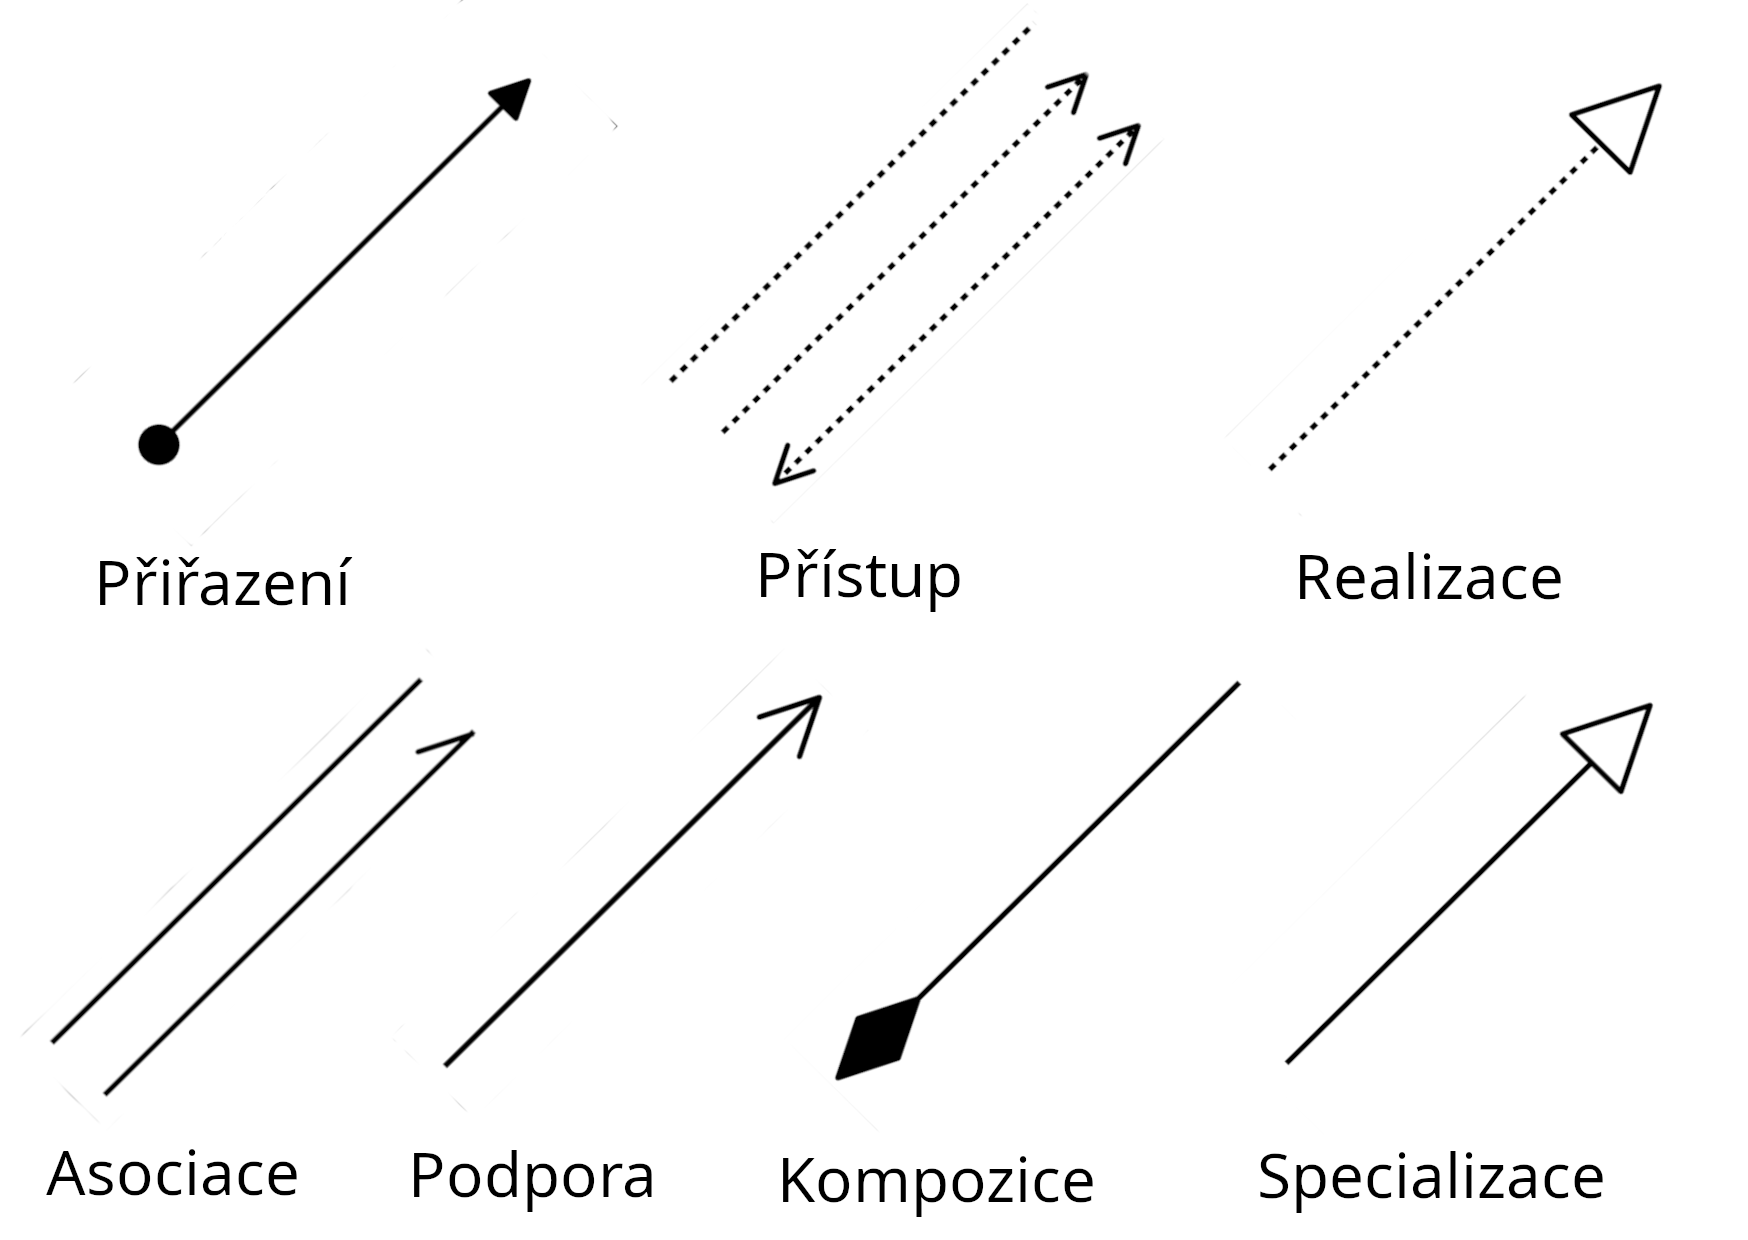
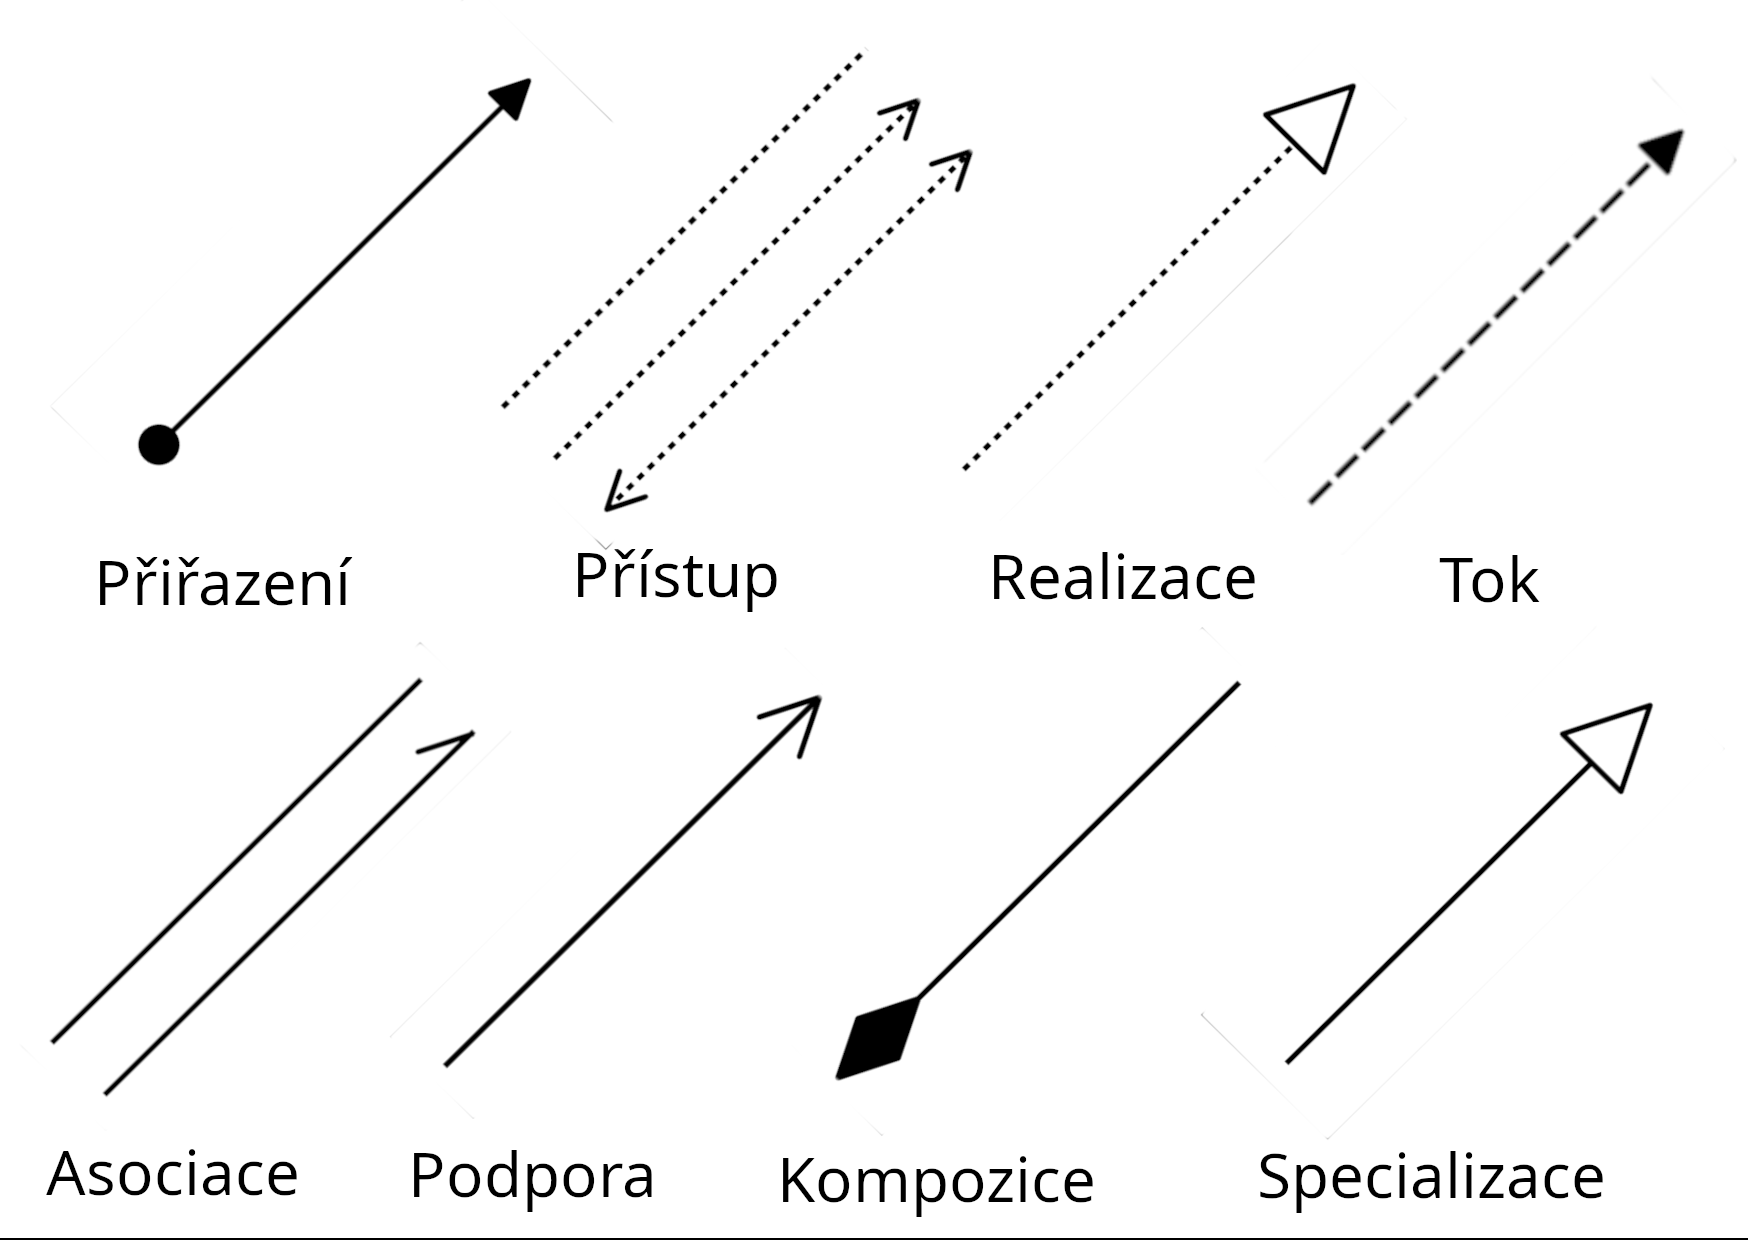
feat(architektura): aktualizace kapitol ArchiMate a Návrh architektury dle modelu
- archimate.tex: doplnění použitých elementů a vztahů s českou terminologií
  z překladového glosáře, obrázky elementů a vztahů
- navrh_architektury: oprava aplikační a technologické vrstvy dle skutečné
  implementace (samostatné komponenty místo IEQ API, ploché kontejnery)
- nová příloha s odkazem na repozitář modelu (archimate.ambiquality.org)
- aktualizace exportovaných pohledů modelu

diff --git a/archimate.tex b/archimate.tex
@@ -1,8 +1,8 @@
 \chapter{Jazyk ArchiMate}
 
-Jazyk ArchiMate je jazykem pro modelování podnikové architektury. Jazyk je vyvíjen organizací The Open Group a je navržen tak, aby poskytoval jednotný jazkyk pro popis podnikové architektury. V práci je použita verze jazyka ArchiMate 3.2. Tento modelovcí jazyk byl zvolen na základě konzultace s vedoucím práce.
+Jazyk ArchiMate je jazykem pro modelování podnikové architektury. Jazyk je vyvíjen organizací The Open Group a je navržen tak, aby poskytoval jednotný jazyk pro popis podnikové architektury. V práci je použita verze jazyka ArchiMate 3.2. Tento modelovací jazyk byl zvolen na základě konzultace s vedoucím práce. Pro české názvy elementů a vztahů je v této kapitole použita oficiální překladová terminologie z dokumentu \textit{ArchiMate 3.2 Translation Glossary: English -- Czech} \parencite{OpenGroupStandard}.
 
-Jazyk je rozdělen na tři vrstvy, které je možné vidět na obrázku č. \ref{fig:archimate-core-framework} . První vrstvou je vrstva Obchodní, která zachycuje obchodní služby nabízené zákazníkům, které jsou v organizaci realizovány obchodními procesy vykonávannými obchoními aktéry. Druhou vrstvou je vrstva Aplikační, která popisuje aplikační služby, které podporují obchod, a aplikace, které je realizují. Třetí vrstvou je dvojvrstva Technologická \& fyzická, která zachycuje technologické služby, jako jsou služby zpracovávání, ukládání a komunikační služby potřebné ke spuštění aplikací, počítačový a komunikační hardware a systémový software, které tyto služby realizují. Součástí jsou fyzické prvky pro modelování fyzického vybavení, materiálů a distribučních sítí. \parencite{LanguageStructureArchiMate, OpenGroupStandard}
+Jazyk je rozdělen na tři vrstvy, které je možné vidět na obrázku č. \ref{fig:archimate-core-framework} . První vrstvou je vrstva Obchodní, která zachycuje obchodní služby nabízené zákazníkům, které jsou v organizaci realizovány obchodními procesy vykonávanými obchodními aktéry. Druhou vrstvou je vrstva Aplikační, která popisuje aplikační služby, které podporují obchod, a aplikace, které je realizují. Třetí vrstvou je dvojvrstva Technologická \& fyzická, která zachycuje technologické služby, jako jsou služby zpracovávání, ukládání a komunikační služby potřebné ke spuštění aplikací, počítačový a komunikační hardware a systémový software, které tyto služby realizují. Součástí jsou fyzické prvky pro modelování fyzického vybavení, materiálů a distribučních sítí. \parencite{LanguageStructureArchiMate, OpenGroupStandard}
 
 \begin{figure}[hbtp!]
   \centering
@@ -13,10 +13,59 @@ Jazyk je rozdělen na tři vrstvy, které je možné vidět na obrázku č. \ref
   \scriptsize \textit{Zdroj:} Specifikace jazyka ArchiMate 3.2 \parencite{LanguageStructureArchiMate}
 \end{figure}
 
-\[TODO\]
-Doplnit použité elementy
+\section{Použité elementy}
 
-Elementy v jazyce ArchiMate jsou propojeny různými typy vztahů. Vztahy, které byly použity v této práci v kapitole č. \ref{chap:architektura} je možné vidět na obrázku č. \ref{fig:archimate-relationships}. 
+Model architektury využívá podmnožinu elementů ze tří základních vrstev jazyka. Jejich grafickou podobu shrnuje obrázek č.~\ref{fig:archimate-elements}, následující přehled vychází z definic překladového glosáře \parencite{OpenGroupStandard}.
+
+Z \textbf{obchodní vrstvy} jsou použity tyto elementy:
+\begin{itemize}
+  \item \textit{Obchodní role} (\textit{business role}) -- vyjadřuje zodpovědnost za vykonávání dané činnosti, ke které může být přiřazen aktér.
+  \item \textit{Obchodní rozhraní} (\textit{business interface}) -- přístupový bod, na kterém jsou obchodní služby zpřístupněny svému okolí.
+  \item \textit{Obchodní proces} (\textit{business process}) -- posloupnost obchodního chování, která má specifický výstup.
+  \item \textit{Obchodní služba} (\textit{business service}) -- jasně definované chování, které obchodní role nebo aktér nabízí svému prostředí.
+  \item \textit{Obchodní objekt} (\textit{business object}) -- pojem používaný v určité obchodní doméně.
+\end{itemize}
+
+Z \textbf{aplikační vrstvy} jsou použity tyto elementy:
+\begin{itemize}
+  \item \textit{Aplikační komponenta} (\textit{application component}) -- zapouzdření aplikační funkcionality v souladu s implementační strukturou, která je modulární a nahraditelná.
+  \item \textit{Aplikační rozhraní} (\textit{application interface}) -- přístupový bod, na kterém jsou aplikační služby zpřístupněny uživateli, jiné komponentě nebo uzlu.
+  \item \textit{Aplikační funkce} (\textit{application function}) -- automatizované chování, které může být vykonáváno aplikační komponentou.
+  \item \textit{Aplikační služba} (\textit{application service}) -- explicitně definované a vystavené aplikační chování.
+  \item \textit{Datový objekt} (\textit{data object}) -- data strukturovaná pro automatizované zpracování.
+\end{itemize}
+
+Z \textbf{technologické vrstvy} jsou použity tyto elementy:
+\begin{itemize}
+  \item \textit{Uzel} (\textit{node}) -- výpočetní nebo fyzický prostředek, který poskytuje prostor a interaguje s dalšími prostředky.
+  \item \textit{Systémový software} (\textit{system software}) -- software sloužící k ukládání, vykonávání nebo použití jiného softwaru či dat.
+  \item \textit{Technologická služba} (\textit{technology service}) -- explicitně definované a vystavené technologické chování.
+  \item \textit{Artefakt} (\textit{artifact}) -- data používaná či produkovaná během vývoje, nasazení a provozu IT systému.
+\end{itemize}
+
+\begin{figure}[hbtp!]
+  \centering
+  \caption{Elementy jazyka ArchiMate použité v modelu}
+  \label{fig:archimate-elements}
+  \includegraphics[width=0.8\textwidth]{img/archimate-elements}
+  
+  \scriptsize \textit{Zdroj:} Vlastní zpracování na základě specifikace jazyka ArchiMate 3.2 \parencite{LanguageStructureArchiMate}
+\end{figure}
+
+\section{Použité vztahy}
+
+Elementy v jazyce ArchiMate jsou propojeny různými typy vztahů. Vztahy, které byly použity v modelu v kapitole č.~\ref{chap:architektura}, je možné vidět na obrázku č.~\ref{fig:archimate-relationships}. Jejich význam podle překladového glosáře \parencite{OpenGroupStandard} je následující:
+\begin{itemize}
+  \item \textit{Kompozice} (\textit{composition}) -- vyjadřuje, že jeden prvek se skládá z jednoho nebo více konceptů.
+  \item \textit{Přiřazení} (\textit{assignment}) -- vyjadřuje přidělení zodpovědnosti, vykonání nebo provedení činnosti.
+  \item \textit{Realizace} (\textit{realization}) -- vyjadřuje, že nějaký prvek hraje zásadní roli při vytváření nebo provozu jiného, abstraktnějšího prvku.
+  \item \textit{Podpora} (\textit{serving}) -- vyjadřuje, že prvek poskytuje svoji funkčnost jinému prvku.
+  \item \textit{Přístup} (\textit{access}) -- vyjadřuje schopnost prvku chování sledovat nebo manipulovat s pasivními prvky (datovými a obchodními objekty).
+  \item \textit{Tok} (\textit{flow}) -- vyjadřuje přenos (např. informací) z jednoho prvku do druhého.
+  \item \textit{Specializace} (\textit{specialization}) -- vyjadřuje, že jeden prvek je specifickým typem jiného prvku.
+  \item \textit{Asociace} (\textit{association}) -- vyjadřuje blíže neupřesněný vztah, pro který nelze použít jiný vztah definovaný v jazyce ArchiMate.
+\end{itemize}
+
 \begin{figure}[hbtp!]
   \centering
   \caption{Vztahy v jazyce ArchiMate}

diff --git a/navrh_architektury.tex b/navrh_architektury.tex
@@ -2,58 +2,58 @@
 
 Tato kapitola se zabývá návrhem architektury systému aplikace pro sběr dat o IEQ. Návrh vychází z identifikovaných požadavků a případů užití vymezených v předchozích kapitolách.  
 
-Na obrázku č. \ref{fig:archimate-model} lze vidět celkový pohled na model. Model je však rozsáhlý a pro nejlepší zážitek z prohlížení byla vytvořena webová stránka \href{archimate.ambiquality.org}{archimate.ambiqulity.org}, kde lze model podrobně prohlížet. Stránka byla vygenerována pomocí funkce \textit{Report -> HTML} v aplikaci \textit{Archi}, která byla pro modelování použita.
+Na obrázku č. \ref{fig:archimate-model} lze vidět celkový pohled na model. Model je však rozsáhlý a pro nejlepší zážitek z prohlížení byla vytvořena webová stránka \href{https://archimate.ambiquality.org}{archimate.ambiquality.org}, kde lze model podrobně prohlížet. Stránka byla vygenerována pomocí funkce \textit{Report -> HTML} v aplikaci \textit{Archi}, která byla pro modelování použita. Zdrojový kód stránky i exportovaný model jsou dostupné v repozitáři uvedeném v příloze~\ref{app:archimate-repo}.
 
 \begin{figure}[hbtp!]
   \centering
   \caption{Celkový model architektury}
   \label{fig:archimate-model}
-  \includegraphics[width=0.9\textwidth]{img/model}
+  \includegraphics[width=1\textwidth]{img/model}
 
   \scriptsize \textit{Zdroj:} Vlastní zpracování
 \end{figure}
 
 \section{Business vrstva}
 
-Business vrstva, zachycená na obrázku č.~\ref{fig:archimate-business-layer}, popisuje organizační kontext systému prostřednictvím aktérů, rolí, služeb a procesů. Aktéři jsou hierarchicky uspořádáni: kořenový aktér \textit{Uživatel aplikace} se větví na \textit{Producenta dat} a \textit{Spotřebitele dat}, přičemž každý z nich má lidskou a strojovou variantu (tzn. senzor jako strojový producent). Listoví aktéři jsou přiřazeni k odpovídajícím rolím – \textit{Provozovatel monitorovaného prostoru}, \textit{Návštěvník}, \textit{Výzkumný pracovník} a \textit{Vývojář aplikací třetí strany} – které nesou odpovědnosti za konkrétní chování v systému.
+Business vrstva, zachycená na obrázku č.~\ref{fig:archimate-business-layer}, popisuje organizační kontext systému prostřednictvím rolí, rozhraní, služeb a procesů. Aktéři systému jsou modelováni jako obchodní role: \textit{Provozovatel monitorovaného prostoru}, \textit{Návštěvník}, \textit{Výzkumný pracovník} a \textit{Vývojář aplikací třetí strany} jako lidské role, \textit{Senzor} jako strojová role v pozici producenta měření a \textit{Datový katalog} jako role konzumující strojově čitelná metadata. Každá role nese odpovědnost za konkrétní chování v systému.
 
-Klíčové byznys služby zahrnují správu evidence prostoru a senzorů, příjem měření, veřejnou mapu měření, veřejné čtecí API a poskytování datového archivu. Tyto služby jsou realizovány byznys procesy jako \textit{Přihlášení}, \textit{Registrace}, \textit{Příjem měření} nebo \textit{Prohlížení měření}. Jako sdílené byznys objekty vystupují zejména \textit{Měření}, \textit{Data budovy}, \textit{Data místnosti} a \textit{Data senzoru}.
+Klíčové byznys služby zahrnují \textit{Autentizační službu}, \textit{Správu evidence}, \textit{Příjem měření}, \textit{Veřejné čtecí API}, \textit{Strojově čitelný popis API}, \textit{Veřejnou mapu měření}, \textit{Poskytování archivu měření} a \textit{Publikaci datových sad}. Tyto služby jsou realizovány byznys procesy, jako jsou \textit{Registrace}, \textit{Změna přihlašovacích údajů}, \textit{Evidence budovy}, \textit{Evidence místnosti}, \textit{Evidence senzoru}, \textit{Validace přijatých měření}, \textit{Prohlížení měření} nebo \textit{Stažení datového archivu}. Role přistupují ke službám prostřednictvím dvou obchodních rozhraní -- \textit{Rozhraní provozovatele} a \textit{Veřejného webového rozhraní}. Podrobné pohledy na jednotlivé byznys objekty (např. \textit{Měření}, \textit{Data budovy}, \textit{Data místnosti} a \textit{Data senzoru}) jsou kvůli přehlednosti přesunuty do dílčích pohledů dostupných v~online verzi modelu.
 
-\begin{figure}[hbtp!]
+\begin{figure}
   \centering
   \caption{Model obchodní vrstvy}
   \label{fig:archimate-business-layer}
-  \includegraphics[width=0.9\textwidth]{img/business-layer}
+  \includegraphics[width=0.95\textwidth]{img/business-layer}
 
   \scriptsize \textit{Zdroj:} Vlastní zpracování
 \end{figure}
 
 \section{Aplikační vrstva}
 
-Aplikační vrstva, zobrazená na obrázku č.~\ref{fig:archimate-app-layer}, modeluje softwarové komponenty a jejich vzájemné vztahy. Centrálním prvkem je komponenta \textit{IEQ API}, která zastřešuje šest specializovaných modulů: \textit{Autentizační}, \textit{Evidenční}, \textit{Sběrný}, \textit{Čtecí}, \textit{Katalogizační} a \textit{Archivační}. Každý modul realizuje skupinu aplikačních služeb odpovídající příslušným funkčním požadavkům – například Sběrný modul poskytuje služby příjmu a validace příchozích měření, Čtecí modul zajišťuje stránkování a filtrování dotazů.
+Aplikační vrstva, zobrazená na obrázku č.~\ref{fig:archimate-app-layer}, modeluje softwarové komponenty a jejich vzájemné vztahy. Namísto jediné monolitické komponenty je systém rozdělen na samostatné aplikační komponenty, které odpovídají skutečnému členění implementace: \textit{Auth.Api} zajišťuje autentizaci, \textit{Evidence.Api} správu evidence prostorů a senzorů, \textit{Ingestion.Api} příjem příchozích měření, \textit{Public.Api} veřejné čtení dat, poskytování specifikace API a katalogizačních metadat. Dvojici asynchronních komponent tvoří \textit{Ingestion.Worker}, který provádí validaci a zpracování měření, a \textit{Export.Worker}, který obstarává správu datového archivu. Každá komponenta realizuje skupinu aplikačních služeb odpovídající příslušným funkčním požadavkům -- například \textit{Ingestion.Api} poskytuje službu příjmu měření, zatímco \textit{Public.Api} zajišťuje čtení dat a mapové zobrazení.
 
-Druhou hlavní komponentou je \textit{Webová aplikace}, která agreguje dvě aplikační rozhraní: \textit{We-bo-vé rozhraní provozovatele} a \textit{Webové rozhraní návštěvníka}. Obě rozhraní jsou vystavena jedinou single-page aplikací a realizují odpovídající byznys rozhraní z vrstvy níže. Datové objekty (např. \textit{Specifikace API}, \textit{Token relace} nebo \textit{Parametry dotazu}) dokumentují klíčové informační artefakty procházející vrstvou.
+Komponenty \textit{Ingestion.Api} a \textit{Ingestion.Worker} jsou propojeny vztahem toku, který reprezentuje předávání přijatých měření k asynchronnímu zpracování. Druhou hlavní komponentou je \textit{Webová aplikace}, která vystavuje dvě aplikační rozhraní: \textit{Webové rozhraní provozovatele} a \textit{Webové rozhraní návštěvníka}. Obě rozhraní jsou realizována jedinou single-page aplikací a podporují odpovídající obchodní rozhraní z~vrstvy výše. Datové objekty procházející vrstvou jsou kvůli přehlednosti zobrazeny až v~dílčích pohledech online verze modelu.
 
 \begin{figure}[hbtp!]
   \centering
   \caption{Model aplikační vrstvy}
   \label{fig:archimate-app-layer}
-  \includegraphics[width=0.9\textwidth]{img/app-layer}
+  \includegraphics[width=1\textwidth]{img/app-layer}
 
   \scriptsize \textit{Zdroj:} Vlastní zpracování
 \end{figure}
 
 \section{Technologická vrstva}
 
-Technologická vrstva, zachycená na obrázku č.~\ref{fig:archimate-tech-layer}, popisuje nasazení systému na infrastrukturní úrovni. Veškeré komponenty jsou provozovány na jediném \textit{Hostitelském serveru}, který obsahuje kontejnerový engine \textit{Podman}. Pod ním jsou kompozičně zanořeny kontejnerové uzly odpovídající jednotlivým službám: \textit{auth-api}, \textit{ingestion-api}, \textit{public-api}, \textit{catalog-api} a \textit{webapp} pro aplikační složky, dále \textit{postgres-container}, \textit{redis-container} a \textit{caddy-container} pro podpůrnou infrastrukturu.
+Technologická vrstva, zachycená na obrázku č.~\ref{fig:archimate-tech-layer}, popisuje nasazení systému na infrastrukturní úrovni. Veškeré uzly jsou kompozičně zanořeny pod jediným \textit{Hostitelským serverem}, na němž běží kontejnerový engine \textit{Podman}. Aplikačním komponentám odpovídají kontejnerové uzly \textit{auth-api}, \textit{evidence-api}, \textit{ingestion-api}, \textit{ingestion-worker}, \textit{public-api}, \textit{export-worker} a \textit{webapp}, podpůrnou infrastrukturu tvoří uzly \textit{postgres-container}, \textit{redis-container} a \textit{caddy-container}.
 
-Systémový software zahrnuje \textit{PostgreSQL} s rozšířením \textit{TimescaleDB} pro časové řady měření, \textit{Redis} jako cache vrstvu a \textit{Caddy} jako HTTP proxy zajišťující ingress. Technologické služby (\textit{Databázová služba}, \textit{Cache služba}, \textit{Souborová služba}) abstrahují přístup k persistentním uložištím. Artefakty jako \textit{Frontend sestava} nebo \textit{CSV archiv} reprezentují nasaditelné výstupy sestavení.
+Systémový software je kompozičně přiřazen příslušným kontejnerům: \textit{PostgreSQL} s rozšířením \textit{TimescaleDB} pro časové řady měření běží v~\textit{postgres-container}, \textit{Redis} v~\textit{redis-container} a \textit{Caddy} v~\textit{caddy-container}. Technologické služby abstrahují přístup k~infrastruktuře -- \textit{Databázová služba} a \textit{Cache služba} zpřístupňují persistentní úložiště, \textit{Měřicí fronta (Redis Stream)} zprostředkovává asynchronní předávání měření, \textit{HTTP proxy} zajišťuje ingress příchozího provozu a \textit{Souborová služba} přístup k~souborovému úložišti. Nasaditelné výstupy sestavení (artefakty) jsou kvůli přehlednosti zobrazeny až v~dílčích pohledech online verze modelu.
 
 \begin{figure}[hbtp!]
   \centering
   \caption{Model technologické vrstvy}
   \label{fig:archimate-tech-layer}
-  \includegraphics[width=0.9\textwidth]{img/tech-layer}
+  \includegraphics[width=1\textwidth]{img/tech-layer}
 
   \scriptsize \textit{Zdroj:} Vlastní zpracování
 \end{figure}

diff --git a/appendices/archimate-repo.tex b/appendices/archimate-repo.tex
@@ -1,0 +1,14 @@
+\chapter{Zdrojový kód modelu architektury}
+\label{app:archimate-repo}
+
+Kompletní model podnikové architektury vytvořený v~aplikaci \textit{Archi} a~zdrojový kód webové stránky pro jeho interaktivní prohlížení jsou veřejně dostupné v~repozitáři na platformě GitHub:
+
+\begin{center}
+\href{https://github.com/ambiquality/ambiquality-archimate}{github.com/ambiquality/ambiquality-archimate}
+\end{center}
+
+Vygenerovaná webová prezentace modelu je hostována na adrese:
+
+\begin{center}
+\href{https://archimate.ambiquality.org}{archimate.ambiquality.org}
+\end{center}

diff --git a/prace.tex b/prace.tex
@@ -174,6 +174,8 @@ Poznámka: Seznam výpisů programového kódu je vhodné použít, pokud počet
 
 \include{appendices/legislativa}
 
+\include{appendices/archimate-repo}
+
 \include{appendices/usecases}
 
 \include{appendices/pozadavky}

diff --git a/makra.tex b/makra.tex
@@ -43,6 +43,7 @@
 \usepackage{amsthm}         % sazba vět, definic apod. / typesetting of sentences, definitions, etc.
 \usepackage{bm}             % tučné symboly (příkaz \bm) / bold symbols (\bm command)
 \usepackage{graphicx}       % vkládání obrázků / graphics inserting
+\usepackage{rotating}       % otočené (landscape) obrázky a tabulky / rotated (landscape) figures and tables
 \usepackage{dirtree}        % sazba adresářových stromů / directory tree typesetting
 \usepackage{pgf-umlsd}      % UML sekvenční diagramy / UML sequence diagrams
 \usepackage{listings}       % vylepšené prostředí pro strojové písmo / improved environment for source codes typesetting